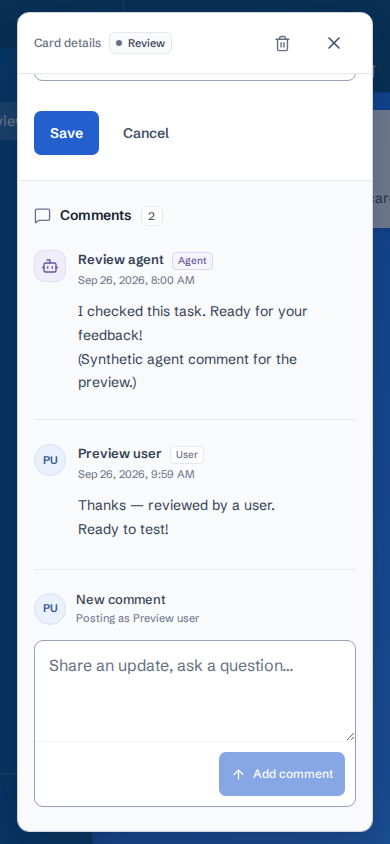
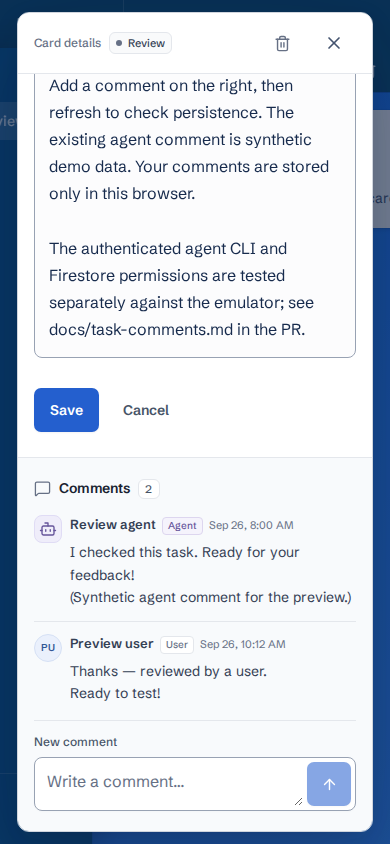
design: compact comment thread and expand composer on demand

diff --git a/src/components/board/board-comments.css b/src/components/board/board-comments.css
@@ -1,44 +1,42 @@
 .kanban-comments { min-width: 0; color: #182230; }
-.kanban-comments-heading { display: flex; align-items: center; gap: 10px; margin-block-end: 28px; }
-.kanban-comments .kanban-comments-heading h3 { display: flex; align-items: center; gap: 9px; margin: 0; font-size: .875rem; font-weight: 600; letter-spacing: -.01em; }
+.kanban-comments-heading { display: flex; align-items: center; gap: 8px; margin-block-end: 16px; }
+.kanban-comments .kanban-comments-heading h3 { display: flex; align-items: center; gap: 8px; margin: 0; font-size: .875rem; font-weight: 600; letter-spacing: -.01em; }
 .kanban-comments-heading svg { color: #667085; }
 .kanban-comments-count { display: inline-grid; place-items: center; min-width: 22px; padding: 1px 6px; border: 1px solid #e4e7ec; border-radius: 6px; background: #fff; color: #475467; font-size: .6875rem; font-weight: 500; font-variant-numeric: tabular-nums; }
-.kanban-comment-avatar { display: inline-flex; align-items: center; justify-content: center; flex: 0 0 32px; width: 32px; height: 32px; border: 1px solid #d6e1f5; border-radius: 50%; background: #eaf0fc; color: #315795; font-size: .6875rem; font-weight: 600; line-height: 1; }
-.kanban-comment-avatar.is-agent { border-color: #e0dcf5; border-radius: 10px; background: #efedfa; color: #65549a; }
+.kanban-comment-avatar { display: inline-flex; align-items: center; justify-content: center; flex: 0 0 28px; width: 28px; height: 28px; border: 1px solid #d6e1f5; border-radius: 50%; background: #eaf0fc; color: #315795; font-size: .625rem; font-weight: 600; line-height: 1; }
+.kanban-comment-avatar.is-agent { border-color: #e0dcf5; border-radius: 8px; background: #efedfa; color: #65549a; }
 .kanban-comment-thread { list-style: none; margin: 0; padding: 0; }
-.kanban-comment-thread > li { display: grid; grid-template-columns: 32px minmax(0, 1fr); align-items: start; gap: 12px; padding-block-end: 24px; }
-.kanban-comment-thread > li + li { padding-block-start: 24px; border-block-start: 1px solid #e4e7ec; }
+.kanban-comment-thread > li { display: grid; grid-template-columns: 28px minmax(0, 1fr); align-items: start; gap: 8px; padding-block-end: 12px; }
+.kanban-comment-thread > li + li { padding-block-start: 12px; border-block-start: 1px solid #e4e7ec; }
 .kanban-comment-content { min-width: 0; }
-.kanban-comment-meta { display: flex; align-items: baseline; flex-wrap: wrap; gap: 6px 8px; min-width: 0; }
+.kanban-comment-meta { display: flex; align-items: baseline; flex-wrap: wrap; gap: 2px 6px; min-width: 0; }
 .kanban-comment-meta strong { min-width: 0; overflow-wrap: anywhere; color: #344054; font-size: .8125rem; font-weight: 600; }
 .kanban-comment-author-type { display: inline-block; flex-shrink: 0; padding: 0 5px; border: 1px solid #e4e7ec; border-radius: 4px; background: #fff; color: #667085; font-size: .625rem; font-weight: 500; line-height: 1.6; }
 .kanban-comment-author-type[data-author-type="agent"] { border-color: #ddd6ef; background: #f5f3fc; color: #65549a; }
-.kanban-comment-content time { display: block; margin-block-start: 2px; color: #667085; font-size: .6875rem; line-height: 1.6; }
-.kanban-comment-content p { margin: 10px 0 0; color: #344054; font-size: .875rem; line-height: 1.7; white-space: pre-wrap; overflow-wrap: anywhere; }
-.kanban-comments-empty { display: flex; flex-direction: column; align-items: center; padding: 28px 12px 40px; text-align: center; }
-.kanban-comments-empty-icon { display: grid; place-items: center; width: 44px; height: 44px; margin-block-end: 14px; border: 1px solid #e4e7ec; border-radius: 12px; background: #fff; color: #667085; box-shadow: 0 2px 4px #10182805; }
-.kanban-comments-empty p { margin: 0; color: #344054; font-size: .875rem; font-weight: 500; }
-.kanban-comments-empty > span:last-child { max-width: 26ch; margin-block-start: 6px; color: #667085; font-size: .8125rem; line-height: 1.6; }
-.kanban-comment-form { margin-block-start: 4px; padding-block-start: 20px; border-block-start: 1px solid #e4e7ec; }
-.kanban-comment-composer-heading { display: flex; align-items: center; gap: 10px; margin-block-end: 12px; }
-.kanban-comment-composer-heading > div { min-width: 0; }
-.kanban-comments .kanban-comment-composer-heading label { display: block; margin: 0; color: #344054; font-size: .8125rem; font-weight: 500; }
-.kanban-comment-composer-heading > div > span { display: block; color: #667085; font-size: .6875rem; line-height: 1.6; overflow-wrap: anywhere; }
-.kanban-comment-composer { border: 1px solid #98a2b3; border-radius: 9px; background: #fff; box-shadow: 0 1px 2px #10182805; }
+.kanban-comment-meta time { color: #667085; font-size: .6875rem; line-height: 1.6; }
+.kanban-comment-content p { margin: 6px 0 0; color: #344054; font-size: .875rem; line-height: 1.6; white-space: pre-wrap; overflow-wrap: anywhere; }
+.kanban-comments-empty { margin: 0 0 12px; color: #667085; font-size: .8125rem; }
+.kanban-comment-form { margin-block-start: 4px; padding-block-start: 12px; border-block-start: 1px solid #e4e7ec; }
+.kanban-comments .kanban-comment-form label { display: block; margin: 0 0 6px; color: #475467; font-size: .75rem; font-weight: 500; }
+.kanban-comment-composer { display: grid; grid-template-columns: minmax(0, 1fr) auto; align-items: end; gap: 4px; padding: 4px; border: 1px solid #98a2b3; border-radius: 8px; background: #fff; box-shadow: 0 1px 2px #10182805; }
 .kanban-comment-composer:focus-within { border-color: #2563eb; outline: 2px solid #2563eb; outline-offset: 2px; }
-.kanban-comments .kanban-comment-composer textarea { display: block; width: 100%; min-height: 96px; padding: 12px 14px; border: 0; border-radius: 9px 9px 0 0; background: transparent; color: #344054; font-size: .875rem; line-height: 1.6; resize: vertical; }
+/* Compact at rest; usable multiline fallback without requiring field-sizing support. */
+.kanban-comments .kanban-comment-composer textarea { display: block; field-sizing: content; width: 100%; min-height: 36px; max-height: 240px; padding: 7px 8px; border: 0; border-radius: 4px; background: transparent; color: #344054; font-size: .875rem; line-height: 1.6; resize: vertical; }
+.kanban-comments .kanban-comment-composer:focus-within textarea,
+.kanban-comments .kanban-comment-composer[data-has-text="true"] textarea { min-height: 72px; }
 .kanban-comments .kanban-comment-composer textarea:focus { outline: none; }
 .kanban-comments .kanban-comment-composer textarea::placeholder { color: #667085; }
-.kanban-comment-composer-footer { display: flex; flex-wrap: wrap; align-items: center; justify-content: space-between; gap: 8px; padding: 10px; border-block-start: 1px solid #f2f4f7; }
-.kanban-comment-shortcut { color: #667085; font-size: .625rem; line-height: 1.5; }
+.kanban-comments .kanban-comment-composer .kanban-comment-send { width: 36px; min-height: 36px; padding: 0; border-radius: 5px; }
+.kanban-comment-shortcut { display: none; margin-block-start: 6px; color: #667085; font-size: .6875rem; line-height: 1.5; }
+.kanban-comment-form:focus-within .kanban-comment-shortcut { display: block; }
 .kanban-comment-shortcut kbd { font: inherit; }
-.kanban-comments .kanban-comment-composer-footer button { min-height: 34px; margin-inline-start: auto; padding: 6px 10px; font-size: .75rem; font-weight: 500; }
 .kanban-comments fieldset:disabled .kanban-comment-composer { background: #f2f4f7; }
 @media (max-width: 760px) {
-  .kanban-comments-heading { margin-block-end: 24px; }
-  .kanban-comments .kanban-comment-composer textarea { font-size: 1rem; }
-  .kanban-comments .kanban-comment-composer-footer button { min-height: 44px; padding-inline: 12px; }
-  .kanban-comment-shortcut { display: none; }
+  .kanban-comments .kanban-comment-composer textarea { font-size: 1rem; min-height: 44px; }
+  .kanban-comments .kanban-comment-composer .kanban-comment-send { width: 44px; min-height: 44px; }
+}
+@media (pointer: coarse) {
+  .kanban-comments .kanban-comment-composer .kanban-comment-send { width: 48px; min-height: 48px; }
 }
 @media (prefers-contrast: more) {
   .kanban-comment-avatar, .kanban-comment-author-type, .kanban-comment-composer { border-color: currentColor; }

diff --git a/src/components/board/BoardComments.tsx b/src/components/board/BoardComments.tsx
@@ -6,9 +6,9 @@ import './board-comments.css'
 
 interface Props {
   comments: BoardComment[]; text: string; onText: (text: string) => void
-  readOnly?: boolean; pending: boolean; onAdd: () => Promise<void>; authorName?: string
+  readOnly?: boolean; pending: boolean; onAdd: () => Promise<void>
 }
-export function BoardComments({ comments, text, onText, pending, readOnly, onAdd, authorName = 'You' }: Props) {
+export function BoardComments({ comments, text, onText, pending, readOnly, onAdd }: Props) {
   const inputId = useId()
   const hintId = useId()
   return <section className="kanban-comments" aria-label="Comments">
@@ -16,10 +16,7 @@ export function BoardComments({ comments, text, onText, pending, readOnly, onAdd
       <h3><MessageSquare size={17} strokeWidth={1.8} aria-hidden="true" /> Comments</h3>
       <span className="kanban-comments-count" aria-hidden="true">{comments.length}</span>
     </div>
-    {comments.length === 0 ? <div className="kanban-comments-empty">
-      <span className="kanban-comments-empty-icon" aria-hidden="true"><MessageSquare size={22} strokeWidth={1.5} /></span>
-      <p>No comments yet.</p><span>Share an update or start a conversation.</span>
-    </div> : <ol className="kanban-comment-thread" role="list" aria-label="Comment thread">
+    {comments.length === 0 ? <p className="kanban-comments-empty">No comments yet.</p> : <ol className="kanban-comment-thread" role="list" aria-label="Comment thread">
       {comments.map((comment) => <li key={comment.id}>
         <CommentAvatar name={comment.authorName} agent={comment.authorType === 'agent'} />
         <div className="kanban-comment-content">
@@ -27,10 +24,10 @@ export function BoardComments({ comments, text, onText, pending, readOnly, onAdd
             <span className="kanban-comment-author-type" data-author-type={comment.authorType ?? 'user'}>
               {comment.authorType === 'agent' ? 'Agent' : 'User'}
             </span>
+            <time dateTime={comment.createdAt} title={new Date(comment.createdAt).toLocaleString()} aria-label={new Date(comment.createdAt).toLocaleString()}>
+              {new Date(comment.createdAt).toLocaleString(undefined, { month: 'short', day: 'numeric', hour: 'numeric', minute: '2-digit' })}
+            </time>
           </div>
-          <time dateTime={comment.createdAt} title={new Date(comment.createdAt).toLocaleString()}>
-            {new Date(comment.createdAt).toLocaleString(undefined, { month: 'short', day: 'numeric', year: 'numeric', hour: 'numeric', minute: '2-digit' })}
-          </time>
           <p>{comment.text}</p>
         </div>
       </li>)}
@@ -40,25 +37,19 @@ export function BoardComments({ comments, text, onText, pending, readOnly, onAdd
       if (!pending && !readOnly && text.trim()) void onAdd()
     }}>
       <fieldset disabled={pending}>
-        <div className="kanban-comment-composer-heading">
-          <CommentAvatar name={authorName} />
-          <div><label htmlFor={inputId}>New comment</label><span>Posting as {authorName}</span></div>
-        </div>
-        <div className="kanban-comment-composer">
-          <textarea id={inputId} name="comment" aria-describedby={hintId} placeholder="Share an update, ask a question…"
-            maxLength={10000} readOnly={readOnly} value={text} rows={3}
+        <label htmlFor={inputId}>New comment</label>
+        <div className="kanban-comment-composer" data-has-text={text.length > 0}>
+          <textarea id={inputId} name="comment" aria-describedby={hintId} placeholder="Write a comment…"
+            maxLength={10000} readOnly={readOnly} value={text} rows={1}
             onChange={(event) => onText(event.target.value)} onKeyDown={(event) => {
               if (event.key === 'Enter' && (event.metaKey || event.ctrlKey) && !event.nativeEvent.isComposing && event.keyCode !== 229) {
                 event.preventDefault(); event.currentTarget.form?.requestSubmit()
               }
             }} />
-          <div className="kanban-comment-composer-footer">
-            <span id={hintId} className="kanban-comment-shortcut"><kbd>Ctrl</kbd> / <kbd>⌘</kbd> + <kbd>Enter</kbd> to post</span>
-            <button type="submit" disabled={readOnly || !text.trim()} className="kanban-primary">
-              <ArrowUp size={15} aria-hidden="true" /> Add comment
-            </button>
-          </div>
+          <button type="submit" disabled={readOnly || !text.trim()} className="kanban-primary kanban-comment-send"
+            aria-label="Add comment" title="Add comment (Ctrl/⌘ + Enter)"><ArrowUp size={17} aria-hidden="true" /></button>
         </div>
+        <span id={hintId} className="kanban-comment-shortcut"><kbd>Ctrl</kbd> / <kbd>⌘</kbd> + <kbd>Enter</kbd> to post</span>
       </fieldset>
     </form>
   </section>

diff --git a/tests/board-comments-density.spec.ts b/tests/board-comments-density.spec.ts
@@ -1,0 +1,42 @@
+import { expect, test } from '@playwright/test'
+import { addBoardCard, openBoard, openBoardCard } from './support/board-fixtures'
+
+for (const width of [390, 1440]) test(`compact comment layout stays readable and expands for drafts at ${width}px`, async ({ page }) => {
+  await page.setViewportSize({ width, height: 900 })
+  await openBoard(page)
+  await addBoardCard(page, 'Compact discussion')
+  await openBoardCard(page, 'Compact discussion')
+  const dialog = page.getByRole('dialog')
+  const comments = dialog.getByRole('region', { name: 'Comments' })
+  const form = comments.locator('form')
+  const input = comments.getByLabel('New comment')
+  const height = async () => (await form.boundingBox())!.height
+  expect(await height()).toBeLessThan(100)
+  expect((await comments.getByText('No comments yet.').boundingBox())!.height).toBeLessThan(30)
+  if (width > 760) {
+    expect((await comments.boundingBox())!.width / (await dialog.boundingBox())!.width).toBeLessThan(.4)
+  }
+  // The icon button still has a clear accessible name and a mobile-sized target.
+  const send = comments.getByRole('button', { name: 'Add comment' })
+  await expect(send).toBeDisabled()
+  const sendBox = (await send.boundingBox())!
+  expect(sendBox.width).toBeGreaterThanOrEqual(width < 760 ? 44 : 36)
+  expect(sendBox.height).toBeGreaterThanOrEqual(width < 760 ? 44 : 36)
+  for (const fallback of [false, true]) {
+    if (fallback) await page.addStyleTag({ content: '.kanban-comment-composer textarea { field-sizing: fixed !important; }' })
+    await input.fill(`Update ${fallback ? 'two' : 'one'}\nSecond line`)
+    expect((await input.boundingBox())!.height).toBeGreaterThanOrEqual(72)
+    await dialog.getByLabel('Title', { exact: true }).focus()
+    expect((await input.boundingBox())!.height).toBeGreaterThanOrEqual(72)
+    await expect(input).toHaveValue(`Update ${fallback ? 'two' : 'one'}\nSecond line`)
+    await send.click()
+    await expect(input).toHaveValue('')
+    await dialog.getByLabel('Title', { exact: true }).focus()
+    expect(await height()).toBeLessThan(100)
+  }
+  await expect(comments.getByRole('listitem')).toHaveCount(2)
+  expect((await comments.locator('.kanban-comment-thread').boundingBox())!.height).toBeLessThan(210)
+  const bodyFont = await comments.locator('li p').first().evaluate((element) => parseFloat(getComputedStyle(element).fontSize))
+  expect(bodyFont).toBeGreaterThanOrEqual(14)
+  expect(await comments.evaluate((element) => element.scrollWidth <= element.clientWidth)).toBe(true)
+})

diff --git a/src/components/board/card-details.css b/src/components/board/card-details.css
@@ -27,7 +27,7 @@
 .kanban-dialog.kanban-card-dialog .kanban-dialog-delete { color: #667085; }
 .kanban-dialog.kanban-card-dialog .kanban-dialog-delete:not(:disabled):hover { color: #b42318; background: #fef3f2; }
 .kanban-card-dialog > :is([role="status"], [role="alert"]) { margin: 12px 24px; font-size: .8125rem; }
-.kanban-card-layout { display: grid; grid-template-columns: minmax(0, 1.2fr) minmax(0, 1fr); align-items: stretch; gap: 1px; }
+.kanban-card-layout { display: grid; grid-template-columns: minmax(0, 1.6fr) minmax(0, 1fr); align-items: stretch; gap: 1px; }
 .kanban-card-editor { min-width: 0; padding: 28px 32px 32px; }
 .kanban-title-field { display: grid; gap: 6px; margin-block-end: 28px; }
 .kanban-card-dialog .kanban-title-field label { margin: 0; font-size: .75rem; font-weight: 500; color: #667085; }
@@ -63,7 +63,7 @@
 .kanban-dialog.kanban-card-dialog .kanban-primary { background: #245fce; border-radius: 7px; box-shadow: 0 1px 2px #1018280d; }
 .kanban-dialog.kanban-card-dialog .kanban-primary:not(:disabled):hover { background: #1d4fb0; }
 .kanban-draft-indicator { margin-inline-start: auto; color: #667085; font-size: .75rem; }
-.kanban-card-layout > .kanban-comments { padding: 28px 24px 32px; border-inline-start: 1px solid #e4e7ec; background: #f8fafc; }
+.kanban-card-layout > .kanban-comments { padding: 24px 20px; border-inline-start: 1px solid #e4e7ec; background: #f8fafc; }
 @media (max-width: 760px) {
   .kanban-dialog.kanban-card-dialog { width: calc(100% - 24px); max-height: calc(100dvh - 24px); border-radius: 12px; }
   .kanban-dialog.kanban-card-dialog > header { padding: 8px 16px; gap: 8px; }
@@ -73,6 +73,6 @@
   .kanban-card-layout { grid-template-columns: minmax(0, 1fr); row-gap: 1px; }
   .kanban-card-editor { padding: 24px 16px; }
   .kanban-card-dialog .kanban-title-field textarea { font-size: 1.375rem; }
-  .kanban-card-layout > .kanban-comments { padding: 24px 16px; border-inline-start: 0; border-block-start: 1px solid #e4e7ec; }
+  .kanban-card-layout > .kanban-comments { padding: 20px 16px; border-inline-start: 0; border-block-start: 1px solid #e4e7ec; }
   .kanban-draft-indicator { flex-basis: 100%; margin: 4px 0 0; }
 }

diff --git a/src/components/board/BoardCardDialog.tsx b/src/components/board/BoardCardDialog.tsx
@@ -13,8 +13,6 @@ import { useBoardCardDraft } from './useBoardCardDraft'
 import { useDraftGuard } from './useDraftGuard'
 import './card-details.css'
 
-const commentAuthorName = (user: AppUser) => user.displayName || user.email || 'Canvas owner'
-
 interface Props {
   deleted?: boolean
   card: BoardCard; board: BoardData; user: AppUser; pending: boolean; error: string | null
@@ -86,7 +84,7 @@ export function BoardCardDialog({ card, board, user, pending, deleted, error, ru
       </fieldset>
     </form>
     </div>
-    <BoardComments comments={orderedComments(board, card.id)} text={editor.comment} authorName={commentAuthorName(user)}
+    <BoardComments comments={orderedComments(board, card.id)} text={editor.comment}
       onText={editor.setComment} pending={pending} readOnly={!exists} onAdd={editor.addComment} />
     </div>
   </BoardDialog>

diff --git a/docs/pr-proofs/task-comments/README.md b/docs/pr-proofs/task-comments/README.md
@@ -12,4 +12,17 @@ COMMENTS_PREVIEW_URL=https://box-node-3b67fba47dc69dba-4173.on.boat.dev \
   node scripts/verify-comments-preview.mjs
 ```
 
-Other validation ran remotely on the same sandbox: lint, TypeScript, unit tests, Firestore emulator tests (including actual REST and Node CLI execution), the complete standard Playwright suite, comment Storybook interaction/accessibility tests, production and isolated-preview builds, and React Doctor. Design follow-up: **116 browser tests, 90 unit tests, and 63 board Storybook interaction/accessibility checks passed**. New regressions cover Ctrl/Command+Enter, IME composition, multiline text, and long authors/statuses/URLs at 320, 760, and 1440 pixels. See the PR for the remaining validation.
+Other validation ran remotely on the same sandbox: lint, TypeScript, unit tests, Firestore emulator tests (including actual REST and Node CLI execution), the complete standard Playwright suite, comment Storybook interaction/accessibility tests, production and isolated-preview builds, and React Doctor. Density follow-up: **118 browser tests, 90 unit tests, and 63 board Storybook interaction/accessibility checks passed**. New regressions cover Ctrl/Command+Enter, IME composition, multiline text, and long authors/statuses/URLs at 320, 760, and 1440 pixels. The density tests also enforce a resting composer below 100px, mobile send targets, readable body text, and expansion/draft retention with and without native field sizing. See the PR for the remaining validation.
+
+## Measured space savings
+
+Same two comments and fresh browser state, before/after this density pass:
+
+| Measurement | Before | After |
+| --- | ---: | ---: |
+| Desktop panel width (1440px viewport) | 471px | 399px |
+| Desktop composer form height at rest | 223px | 83px |
+| Mobile comment section height (390px viewport) | 651px | 374px |
+| Mobile composer form height at rest | 238px | 91px |
+
+This saves about **63% of the desktop composer height** and **43% of the mobile comment section height**, without reducing comment body font size (14px). Desktop panel height can still follow the adjacent task editor; the gains there are width and content density.

diff --git a/docs/task-comments.md b/docs/task-comments.md
@@ -2,7 +2,7 @@
 
 Task details share a chronological plain-text thread. Comments show the author, **User** or **Agent**, and a timestamp. Historical comments without `authorType` remain User comments. Existing YAML export/import preserves the new optional attribution. No editing, deletion of individual comments, rich text, mentions, reactions, or attachments are introduced.
 
-The task dialog uses a dedicated conversation panel with human initials, agent icons, inline author labels, compact timestamps (full timestamp on hover), and a comment count. The reply composer follows the chronological thread. **Ctrl+Enter / Command+Enter** posts; plain Enter inserts a newline and IME composition is preserved. Narrow screens stack the panels, with the dialog controls remaining visible while scrolling.
+The task dialog uses a compact conversation panel with human initials, agent icons, inline author labels and timestamps (full timestamp on hover and for assistive technology), and a comment count. The one-line reply composer follows the chronological thread and expands on focus or when a draft exists. Its send icon retains the accessible name “Add comment.” Tighter spacing and a narrower desktop panel leave more room for task details; no comment content is truncated. **Ctrl+Enter / Command+Enter** posts; plain Enter inserts a newline and IME composition is preserved. Narrow screens stack the panels, with the dialog controls remaining visible while scrolling.
 
 User comments retain the existing draft/pending/error behavior. Appends use independent comment documents plus an atomic board-revision update, not a replacement thread. Stable IDs make retries after lost acknowledgements idempotent. Concurrent user/agent posts are retried without overwriting each other. Deleting a task continues to clean up its comments.
 
